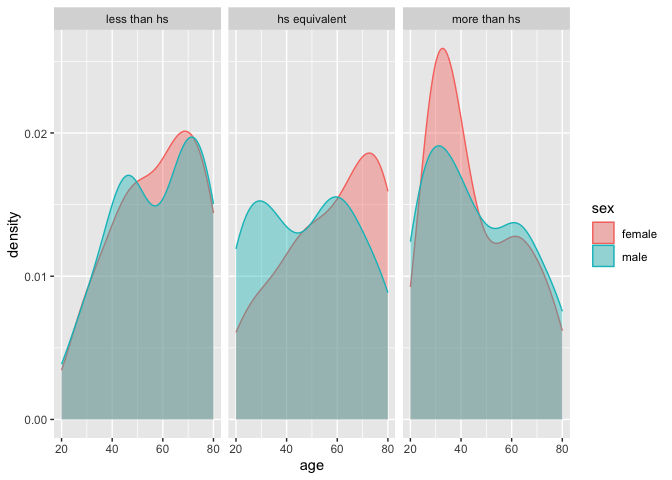
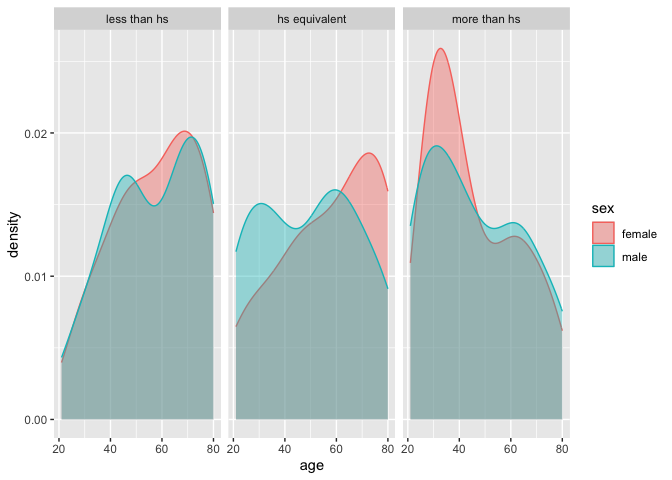
finished question 2 draft.

diff --git a/p8105_hw3_jsm2298.md b/p8105_hw3_jsm2298.md
@@ -78,7 +78,8 @@ nhanes_accel_df = nhanes_accel_df |>
   pivot_longer(contains("min"),
                names_to = "min",
                values_to = "accel",
-               names_prefix = "min")
+               names_prefix = "min") |> 
+  mutate(min = as.numeric(min))
 ```
 
 #### Tidy covariates:
@@ -99,69 +100,50 @@ nhanes_covar_df = nhanes_covar_df |>
       education == 3 ~ "more than hs"
     ), levels = c("less than hs", "hs equivalent", "more than hs")
   )) |> 
+  filter(age >= 21) |> ## Exclude participants less than 21 years old.
   drop_na() ## Remove NA values
 ```
 
 #### Merge data:
 
 ``` r
-## CHECK THIS!!!!
+## Merge in participants keeping only those with full demographic data:
 nhanes_df = nhanes_accel_df |> 
-  inner_join(nhanes_covar_df, by = "seqn") 
-
-nhanes_df |> 
-  group_by(sex, education) |> 
-  summarize(n = n())
+  right_join(nhanes_covar_df, by = "seqn") 
 ```
-
-    ## `summarise()` has regrouped the output.
-    ## ℹ Summaries were computed grouped by sex and education.
-    ## ℹ Output is grouped by sex.
-    ## ℹ Use `summarise(.groups = "drop_last")` to silence this message.
-    ## ℹ Use `summarise(.by = c(sex, education))` for per-operation grouping
-    ##   (`?dplyr::dplyr_by`) instead.
-
-    ## # A tibble: 6 × 3
-    ## # Groups:   sex [2]
-    ##   sex    education         n
-    ##   <fct>  <fct>         <int>
-    ## 1 female less than hs  40320
-    ## 2 female hs equivalent 33120
-    ## 3 female more than hs  84960
-    ## 4 male   less than hs  38880
-    ## 5 male   hs equivalent 51840
-    ## 6 male   more than hs  80640
 
 ### Produce a reader-friendly table for the number of men and women in each education category, and create a visualization of the age distributions for men and women in each education category. Comment on these items.
 
 ``` r
 ## Create the table:
-nhanes_covar_df |> 
-  group_by(sex, education) |> 
+nhanes_df |> 
+  pivot_wider(names_from = min, values_from = accel) |>
+  group_by(education, sex) |> 
   summarize(n = n())
 ```
 
     ## `summarise()` has regrouped the output.
-    ## ℹ Summaries were computed grouped by sex and education.
-    ## ℹ Output is grouped by sex.
+    ## ℹ Summaries were computed grouped by education and sex.
+    ## ℹ Output is grouped by education.
     ## ℹ Use `summarise(.groups = "drop_last")` to silence this message.
-    ## ℹ Use `summarise(.by = c(sex, education))` for per-operation grouping
+    ## ℹ Use `summarise(.by = c(education, sex))` for per-operation grouping
     ##   (`?dplyr::dplyr_by`) instead.
 
     ## # A tibble: 6 × 3
-    ## # Groups:   sex [2]
-    ##   sex    education         n
-    ##   <fct>  <fct>         <int>
-    ## 1 female less than hs     28
-    ## 2 female hs equivalent    23
-    ## 3 female more than hs     59
-    ## 4 male   less than hs     27
-    ## 5 male   hs equivalent    36
-    ## 6 male   more than hs     56
+    ## # Groups:   education [3]
+    ##   education     sex        n
+    ##   <fct>         <fct>  <int>
+    ## 1 less than hs  female    28
+    ## 2 less than hs  male      27
+    ## 3 hs equivalent female    23
+    ## 4 hs equivalent male      35
+    ## 5 more than hs  female    59
+    ## 6 more than hs  male      56
 
 ``` r
 ## Create the plot:
-nhanes_covar_df |> 
+nhanes_df |> 
+  pivot_wider(names_from = min, values_from = accel) |>
   ggplot(aes(x = age, color = sex, fill = sex)) +
   geom_density(alpha = 0.4) +
   facet_wrap(. ~ education)
@@ -169,6 +151,100 @@ nhanes_covar_df |>
 
 ![](p8105_hw3_jsm2298_files/figure-gfm/unnamed-chunk-7-1.png)<!-- -->
 
-### Traditional analyses of accelerometer data focus on the total activity over the day. Using your tidied dataset, aggregate across minutes to create a total activity variable for each participant. Plot these total activities (y-axis) against age (x-axis); your plot should compare men to women and have separate panels for each education level. Include a trend line or a smooth to illustrate differences. Comment on your plot.
+The table shows that there are fewer participants in the less than hs
+and the hs equivalent education groups relative to the more than hs
+education group. Also, the number of female and male participants are
+similar within the less than hs and more than hs groups, but there are
+much more male participants in the hs equivalent education group.
+
+The plot shows interesting differences in the distribution of age across
+different levels of education and sex groups. We see that the
+participants with less than high school or high school equivalent
+education scores have more participants of higher age (except for males
+in the high school equivalent group, who are mostly younger). In
+contrast, participants with more than a high school education have a
+higher density of younger participants across both sexes.
+
+### Traditional analyses of accelerometer data focus on the total activity over the day. Using your tidied data set, aggregate across minutes to create a total activity variable for each participant. Plot these total activities (y-axis) against age (x-axis); your plot should compare men to women and have separate panels for each education level. Include a trend line or a smooth to illustrate differences. Comment on your plot.
+
+``` r
+nhanes_df |> 
+  group_by(seqn, age, sex, education) |> 
+  summarize(mean_accel = mean(accel)) |> 
+  ggplot(aes(x = age, y = mean_accel, color = sex)) +
+  geom_point() + 
+  geom_smooth(method = "lm", se = F) +
+  facet_wrap(. ~ education) +
+  labs(x = "Age", y = "Mean Acceleration (Per Subject)",
+       title = "Age vs Mean Activity Between Subjects",
+       subtitle = "Seperated by Education Level and Sex") 
+```
+
+    ## `summarise()` has regrouped the output.
+    ## `geom_smooth()` using formula = 'y ~ x'
+    ## ℹ Summaries were computed grouped by seqn, age, sex, and education.
+    ## ℹ Output is grouped by seqn, age, and sex.
+    ## ℹ Use `summarise(.groups = "drop_last")` to silence this message.
+    ## ℹ Use `summarise(.by = c(seqn, age, sex, education))` for per-operation
+    ##   grouping (`?dplyr::dplyr_by`) instead.
+
+![](p8105_hw3_jsm2298_files/figure-gfm/unnamed-chunk-8-1.png)<!-- -->
+This plot shows a unique example of moderation based on level of
+education. Across the groups, activity (mean acceleration) decreases
+with increasing age. However, the relationship seems to become
+attenuated as education increases such that those of higher education
+have less of an decrease in activity as they age. We see some
+sex-related differences, with the largest intercept and rate differences
+between men and women seen in the higher education group.
 
 ### Accelerometer data allows the inspection activity over the course of the day. Make a three-panel plot that shows the 24-hour activity time courses for each education level and use color to indicate sex. Describe in words any patterns or conclusions you can make based on this graph; including smooth trends may help identify differences.
+
+``` r
+## Plot data with points:
+nhanes_df |> 
+  group_by(min, sex, education) |> 
+  summarize(mean_accel = mean(accel)) |> 
+  ggplot(aes(x = min, y = mean_accel, color = sex)) +
+  geom_point() +
+  geom_smooth() +
+  facet_wrap(~ education, nrow = 1)
+```
+
+    ## `summarise()` has regrouped the output.
+    ## `geom_smooth()` using method = 'gam' and formula = 'y ~ s(x, bs = "cs")'
+    ## ℹ Summaries were computed grouped by min, sex, and education.
+    ## ℹ Output is grouped by min and sex.
+    ## ℹ Use `summarise(.groups = "drop_last")` to silence this message.
+    ## ℹ Use `summarise(.by = c(min, sex, education))` for per-operation grouping
+    ##   (`?dplyr::dplyr_by`) instead.
+
+![](p8105_hw3_jsm2298_files/figure-gfm/unnamed-chunk-9-1.png)<!-- -->
+
+``` r
+## Plot only smoothed lines:
+nhanes_df |> 
+  ggplot(aes(x = min, y = accel, color = sex)) +
+  geom_smooth() +
+  facet_wrap(~ education, nrow = 1)
+```
+
+    ## `geom_smooth()` using method = 'gam' and formula = 'y ~ s(x, bs = "cs")'
+
+![](p8105_hw3_jsm2298_files/figure-gfm/unnamed-chunk-9-2.png)<!-- -->
+
+The curves show similar relationships across each education group with
+slight differences. We see across sex and education, that activity peaks
+in the waking hours of the day time and drops into the evening. Those
+with less than a high school degree seem to be more active earlier in
+the day with steeper decreases as the day progresses, while those with a
+high school diploma or above seem to have a more constant activity
+pattern during the day and then a sharper decline in the evening. The
+major sex differences are found in the group with a high school degree
+or above, as male participants seem to show less activity during the
+day.
+
+I decided to interpret the question as asking for mean activity across
+each minute for each group. Otherwise, the points are far too
+overwhelming to gather meaningful data from the plot. I also included a
+plot with only the fitted spline equations to the original data to see
+where the underlying trends of activity show.
